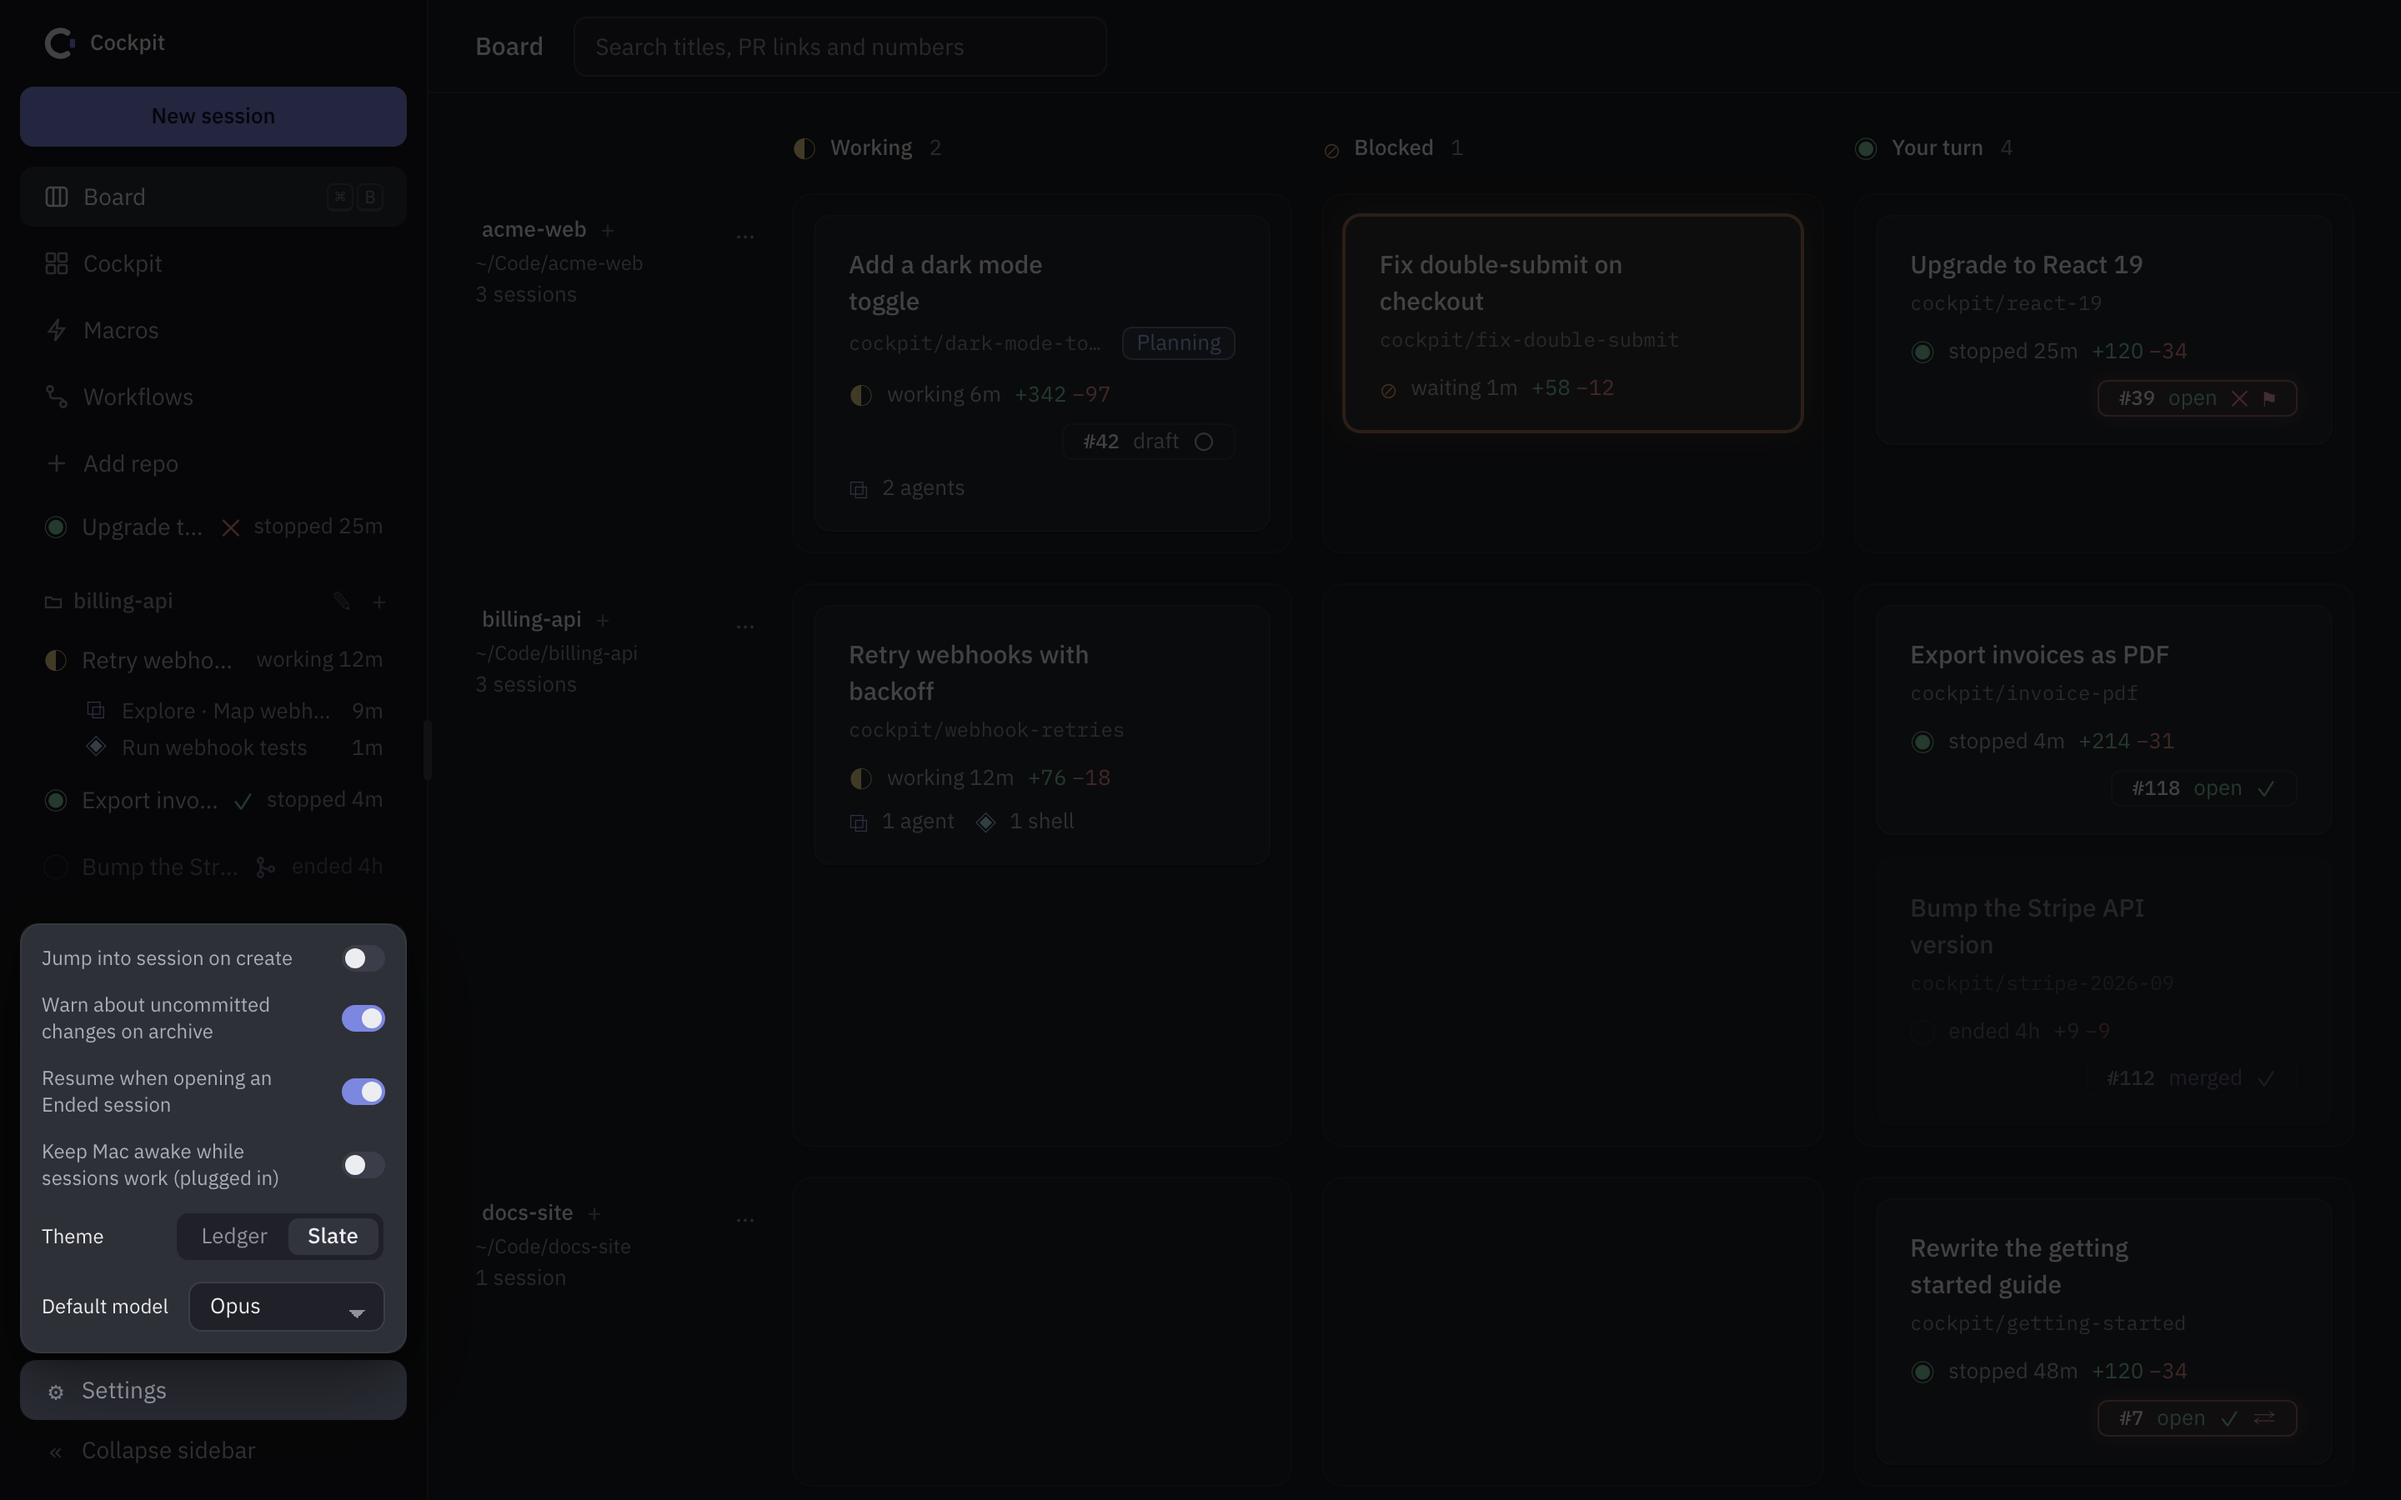
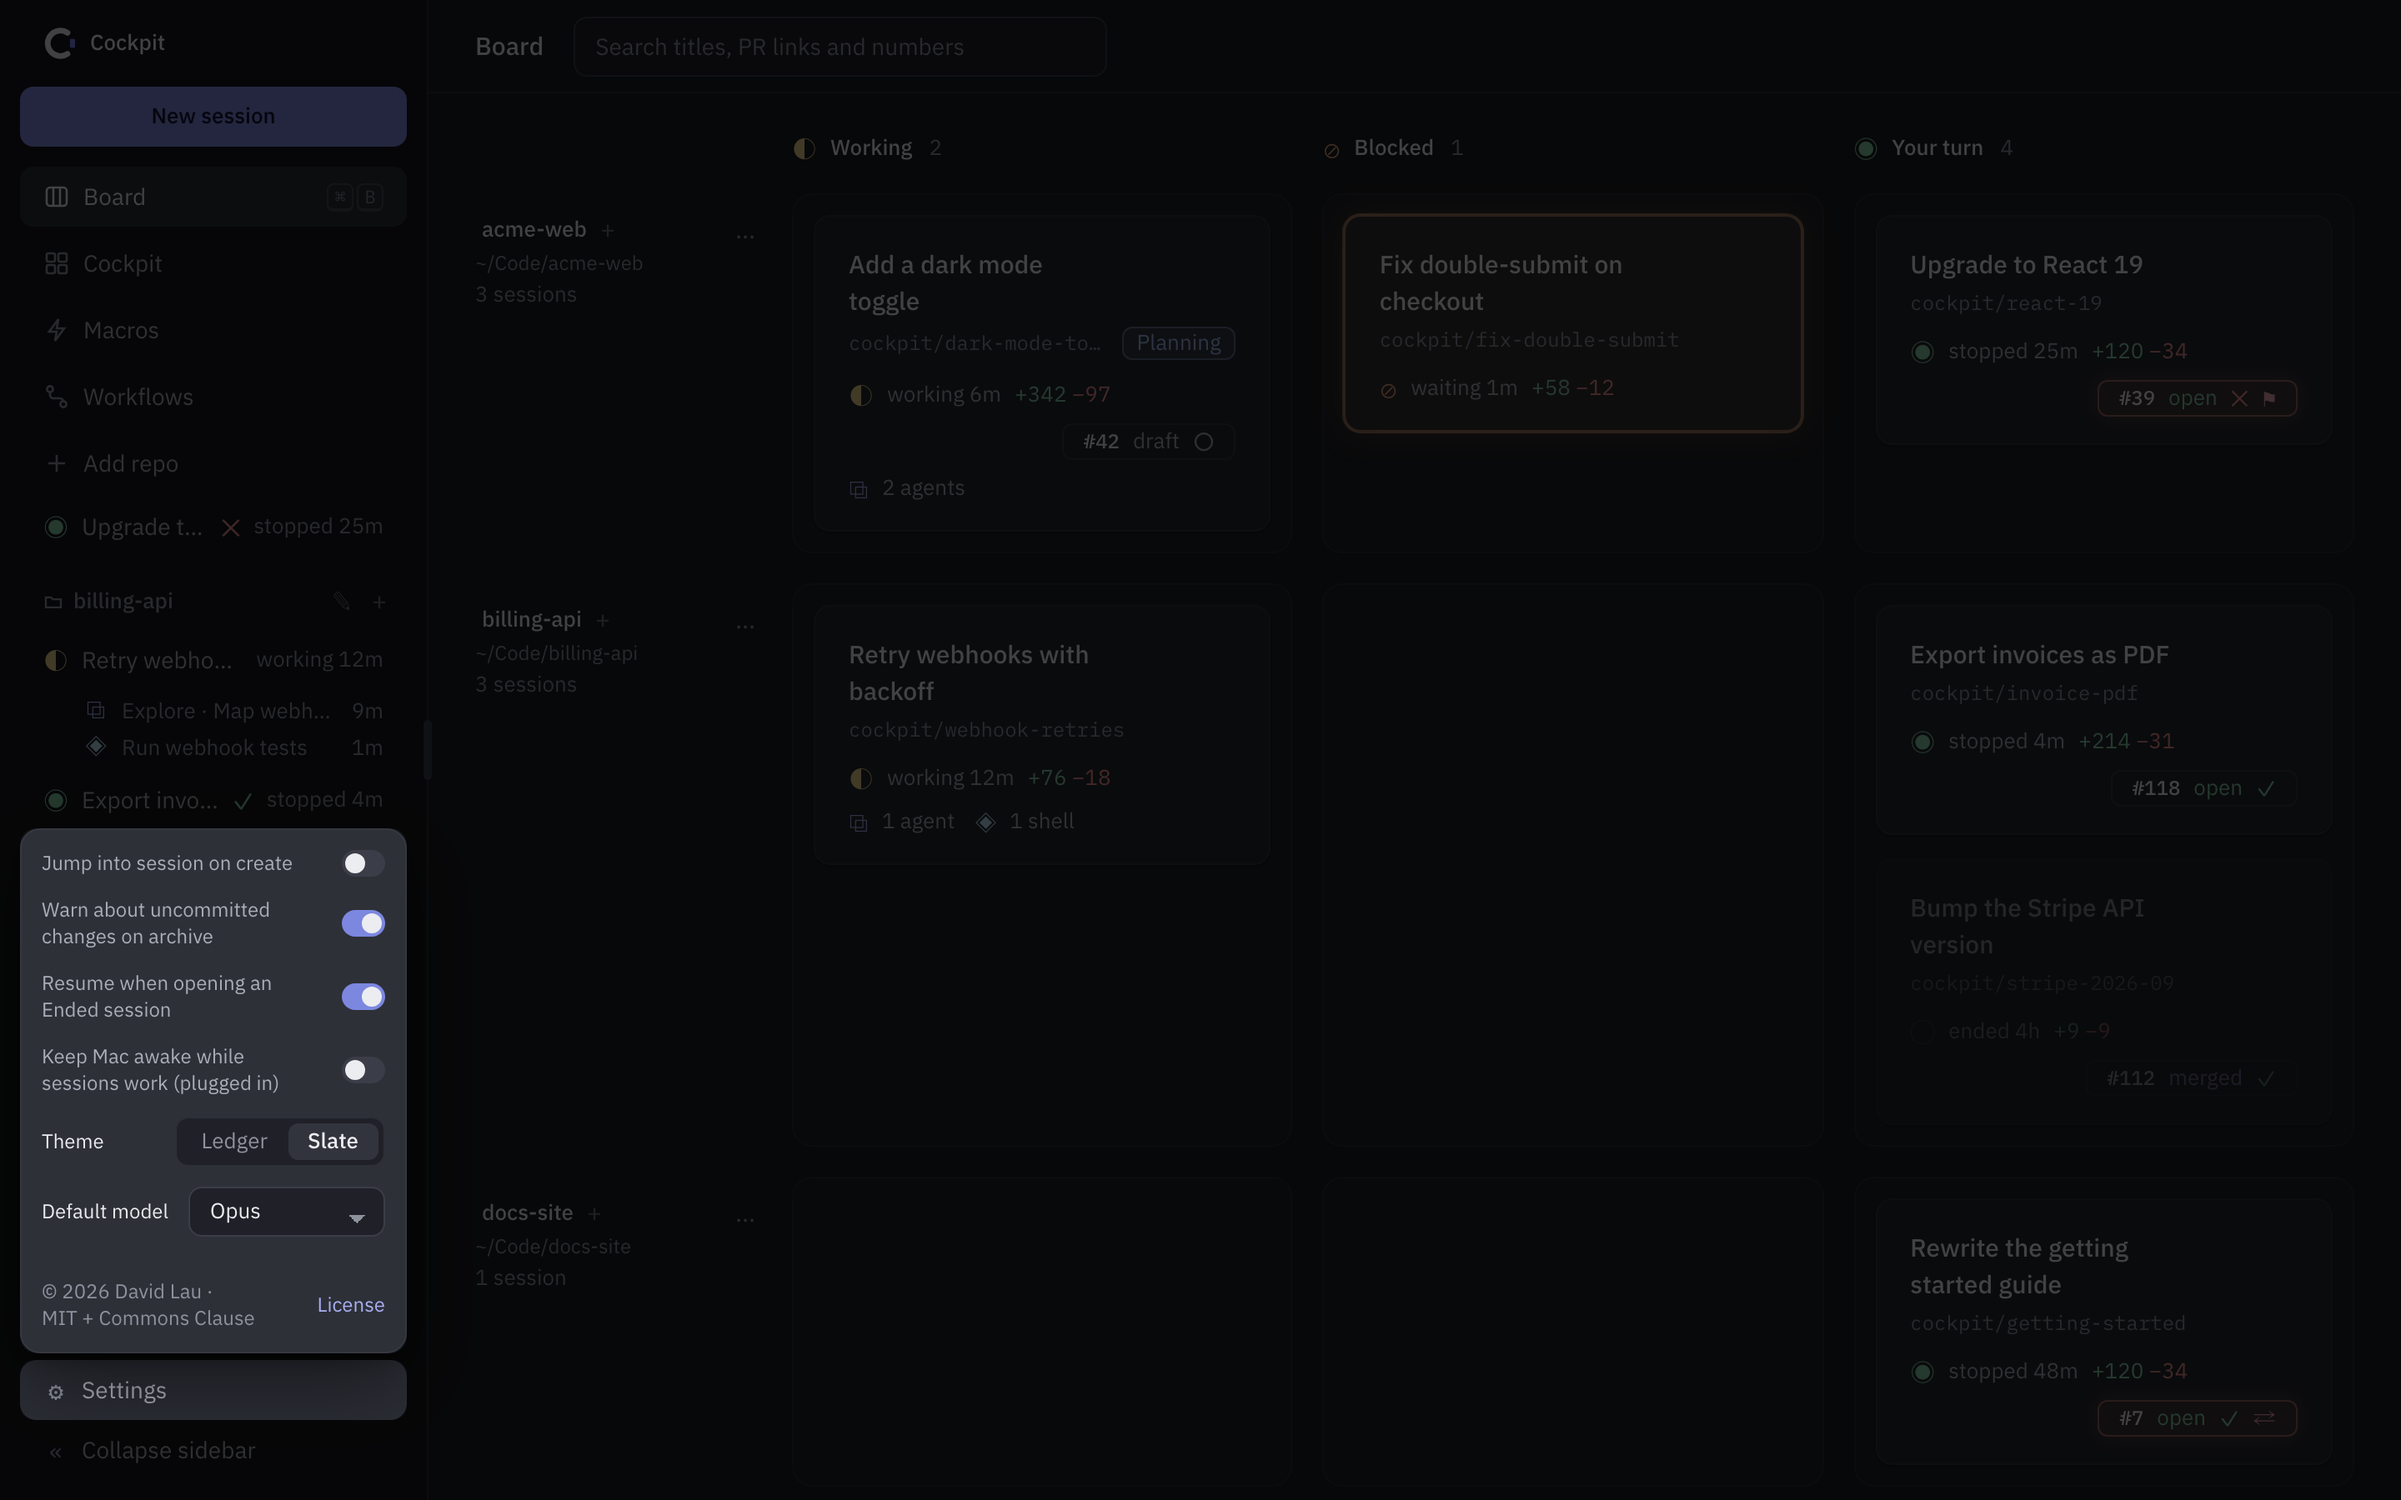
docs: Settings shows the license and About shows the copyright

Changed region(s): [[0.0, 0.5289, 0.1875, 0.84], [0.0312, 0.84, 0.0938, 0.9022]]

diff --git a/README.md b/README.md
@@ -211,7 +211,7 @@ The sidebar footer shows your plan's 5-hour and weekly limits: % used and reset 
 | Theme | Slate (Ledger is a darker alternative) |
 | Default model | Opus |
 
-The installed app also shows its version and **Check for updates**.
+The installed app also shows its version and **Check for updates**. The last row, **License**, shows Cockpit's license and the licenses of the open-source software it includes. **Cockpit → About Cockpit** shows the version and the copyright.
 
 ---
 
